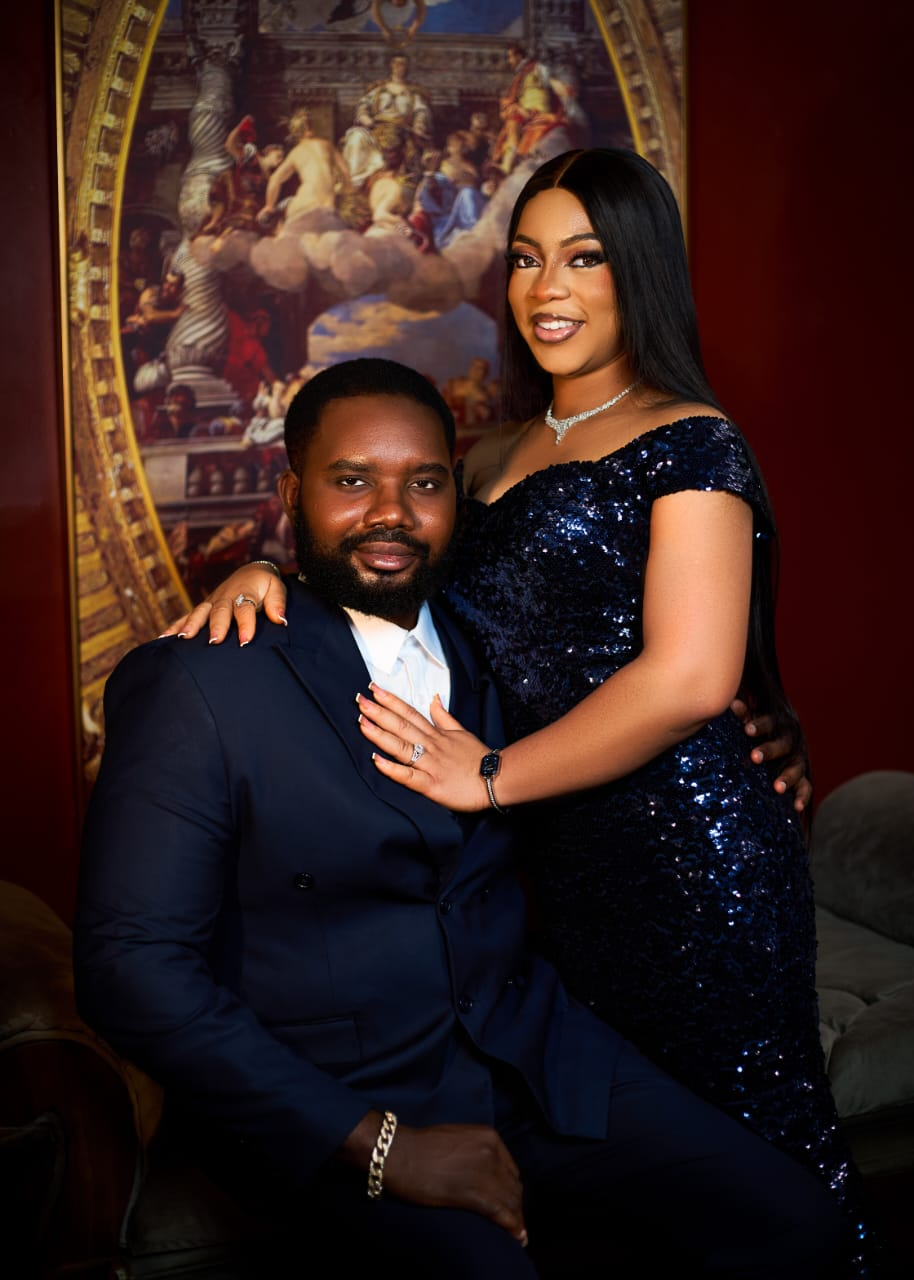
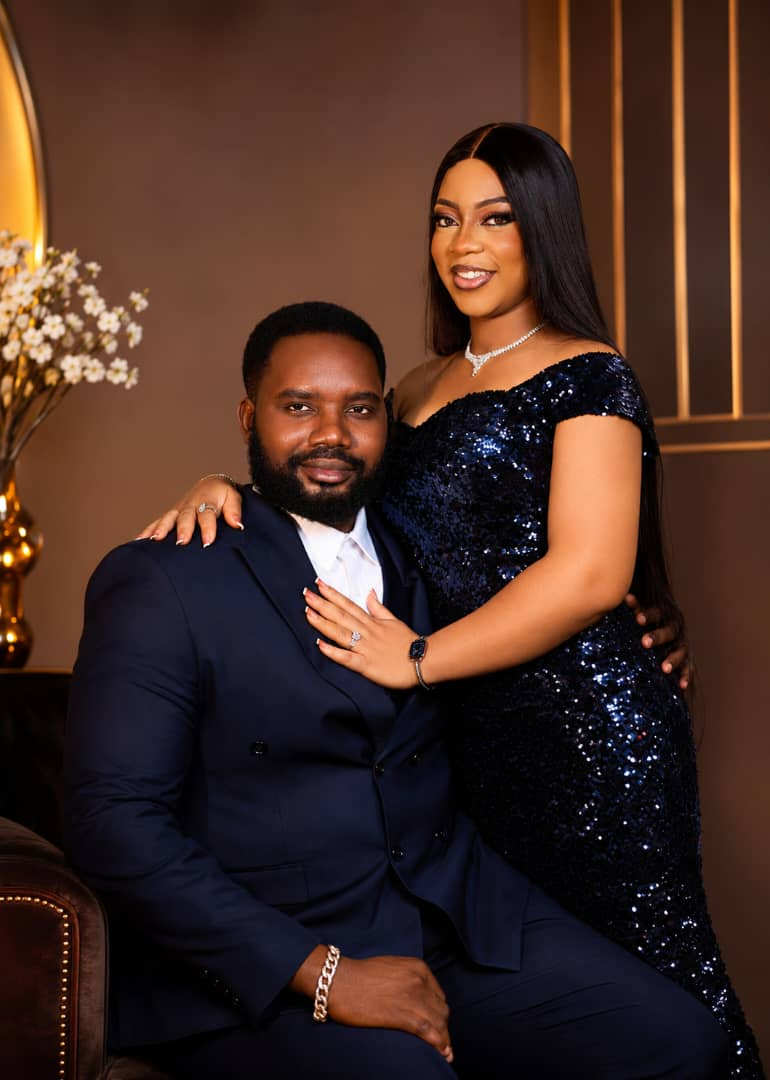
Updated photos in gallery and hero section

diff --git a/src/data/content.js b/src/data/content.js
@@ -15,8 +15,8 @@ export const SCHEDULE = [
 
 // Photoshoot carousel: put 5-6 images in /public/photos/ and list them here.
 // Any that fail to load are skipped automatically.
-export const PHOTOS = ["/photos/1.jpeg", "/photos/2.jpeg", "/photos/3.jpeg", "/photos/4.jpeg", "/photos/5.jpeg", "/photos/6.jpeg"];
-export const SLIDE_MS = 2000; // how long each photo stays on screen
+export const PHOTOS = ["/photos/1.jpeg", "/photos/2.jpeg"];
+export const SLIDE_MS = 5000; // how long each photo stays on screen
 
 export const GALLERY_INTRO =
   "Every picture here holds a small piece of our story: the laughter, the quiet looks, the nervous excitement, and the joy of finding home in each other. We are so grateful to have you walking this journey with us, and we hope these moments make you smile as much as they make us smile. Take your time, and enjoy a little glimpse of our love.";
